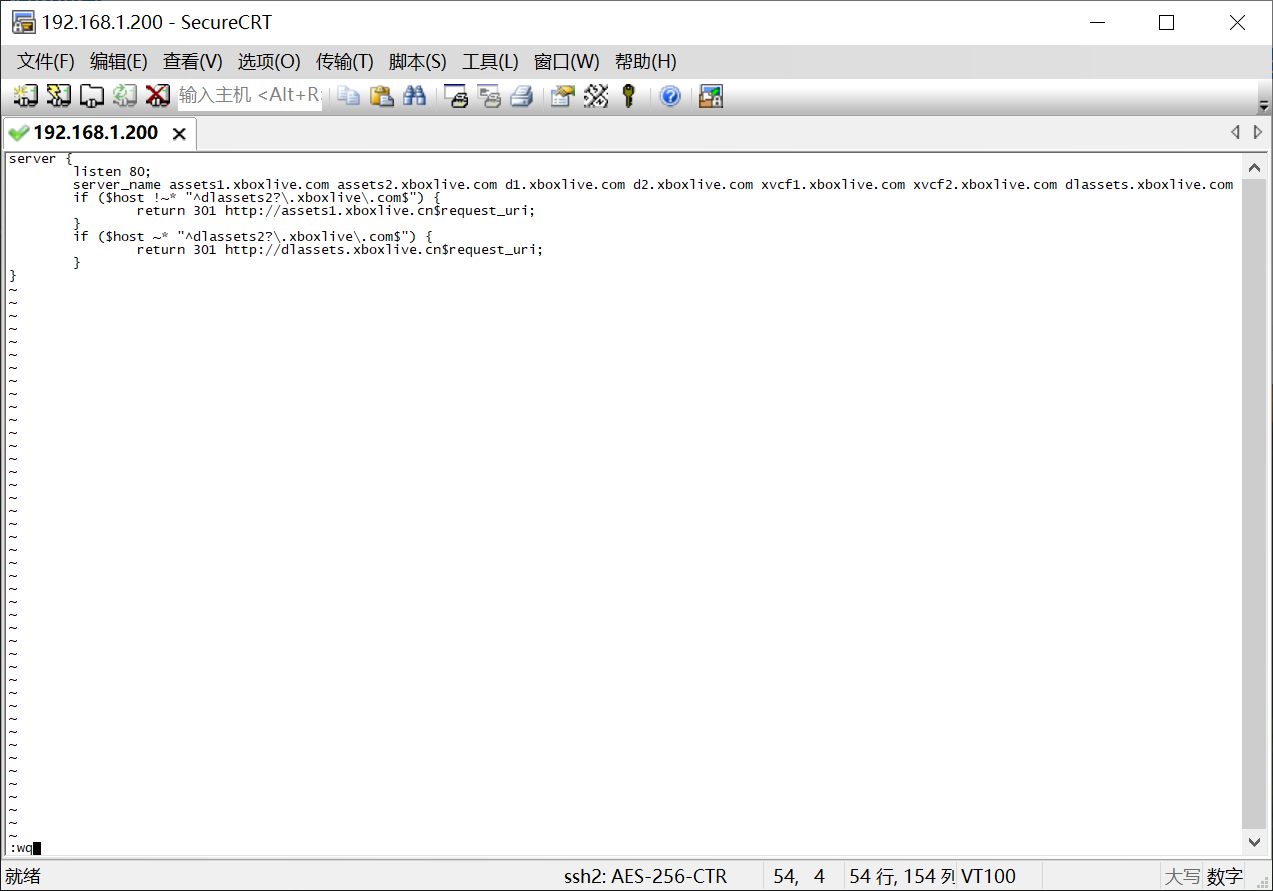
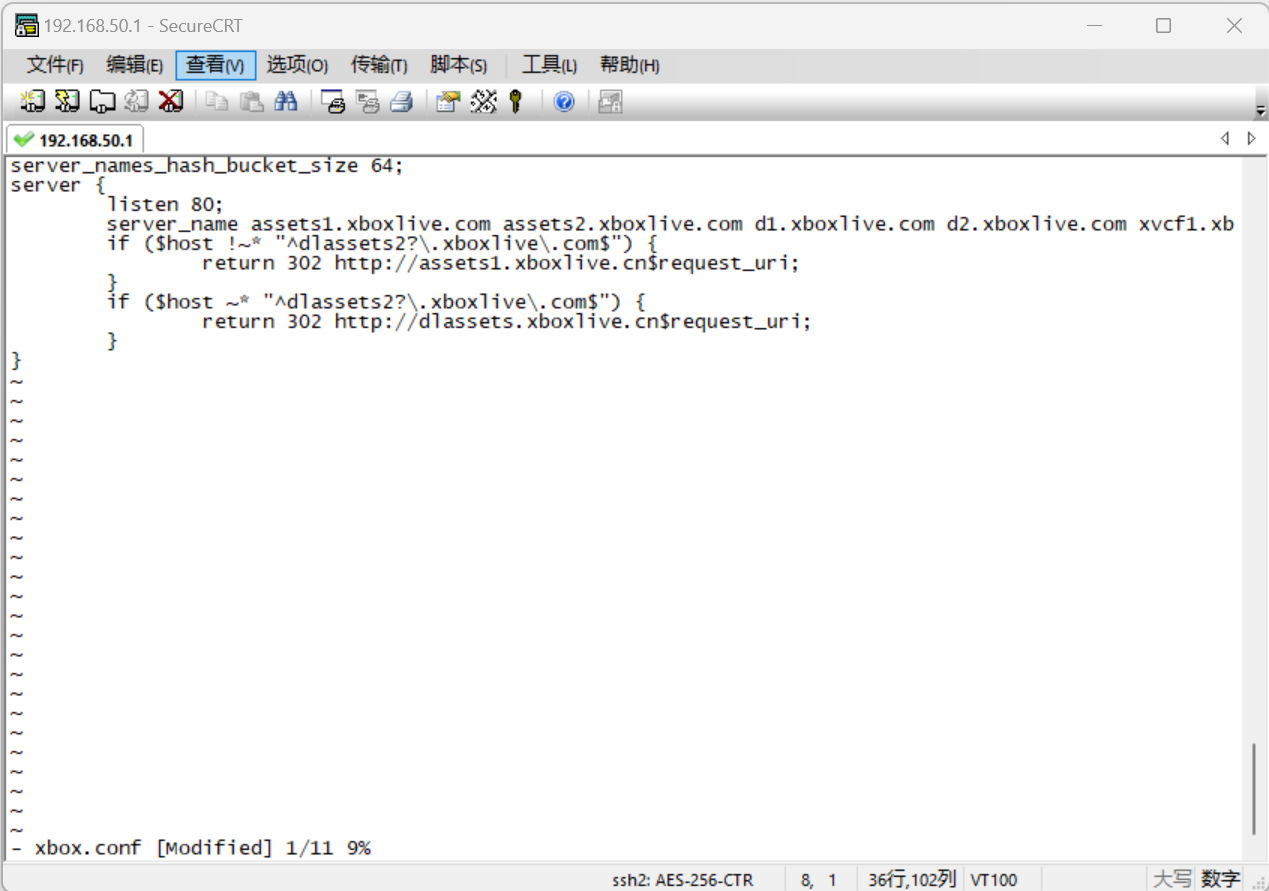
Update

diff --git a/README_OpenWrt.md b/README_OpenWrt.md
@@ -114,10 +114,10 @@ server {
         listen 80;
         server_name assets1.xboxlive.com assets2.xboxlive.com d1.xboxlive.com d2.xboxlive.com xvcf1.xboxlive.com xvcf2.xboxlive.com dlassets.xboxlive.com dlassets2.xboxlive.com;
         if ($host !~* "^dlassets2?\.xboxlive\.com$") {
-                return 301 http://assets1.xboxlive.cn$request_uri;
+                return 302 http://assets1.xboxlive.cn$request_uri;
         }
         if ($host ~* "^dlassets2?\.xboxlive\.com$") {
-                return 301 http://dlassets.xboxlive.cn$request_uri;
+                return 302 http://dlassets.xboxlive.cn$request_uri;
         }
 }
 
